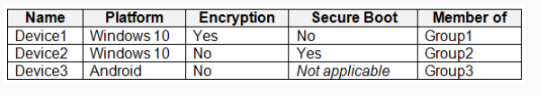
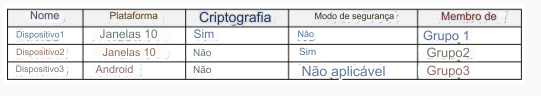
dd

diff --git a/178.html b/178.html
@@ -32,8 +32,8 @@
              
           <br><br><b>Marque apenas a resposta que julgar correta </b><br><br>
             <label>A <input type="checkbox" name="answer" value="a" > O dispositivo 1 está marcado como compatível.</label>
-            <label>B <input type="checkbox" name="answer" value="b" > Device2 está marcado como compatível.</label>
-            <label>C <input type="checkbox" name="answer" value="c" > Device3 está marcado como compatível.</label> 
+            <label>B <input type="checkbox" name="answer" value="b" > O dispositivo 2 está marcado como compatível.</label>
+            <label>C <input type="checkbox" name="answer" value="c" > O dispositivo 3 está marcado como compatível.</label> 
             
 
 
